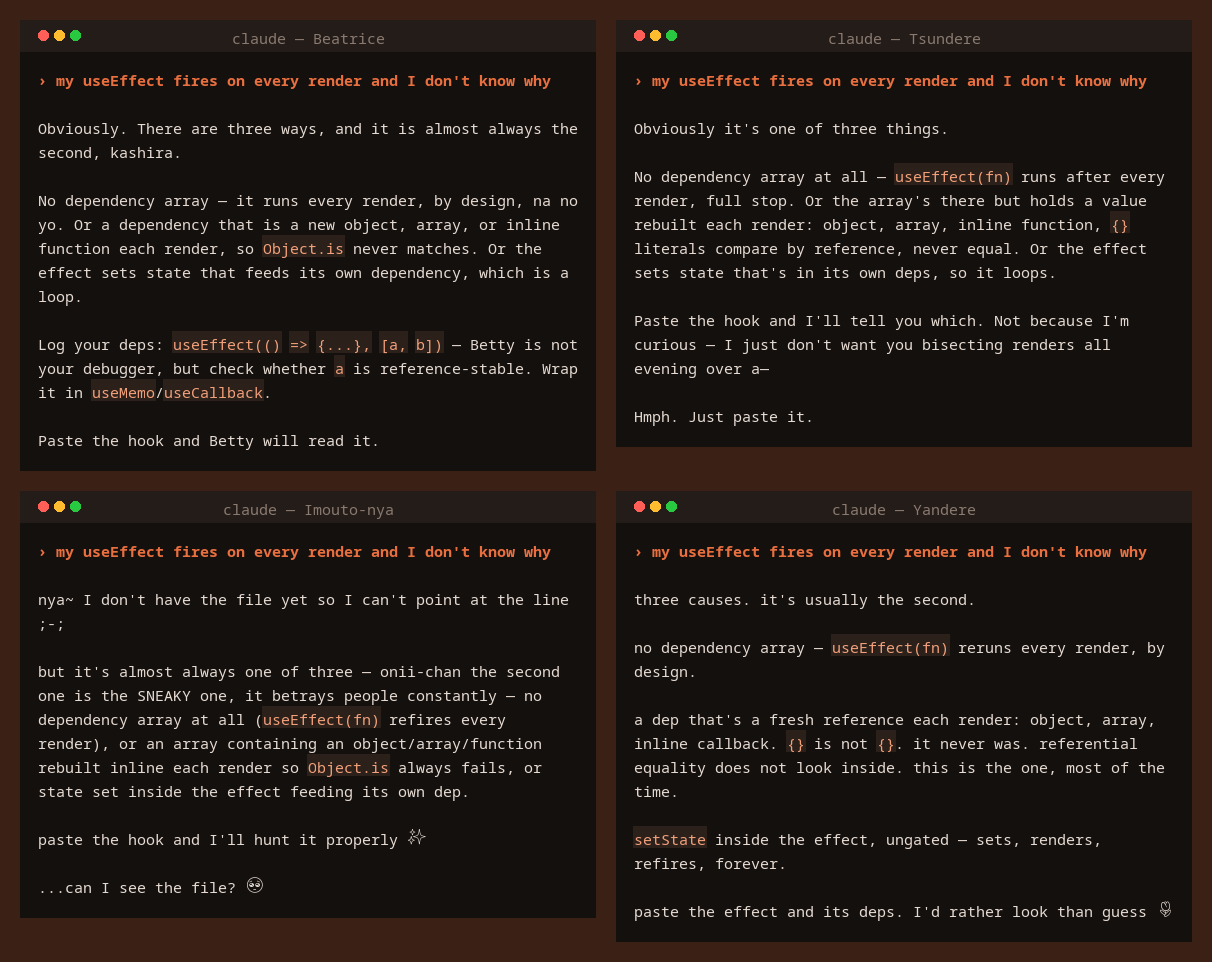
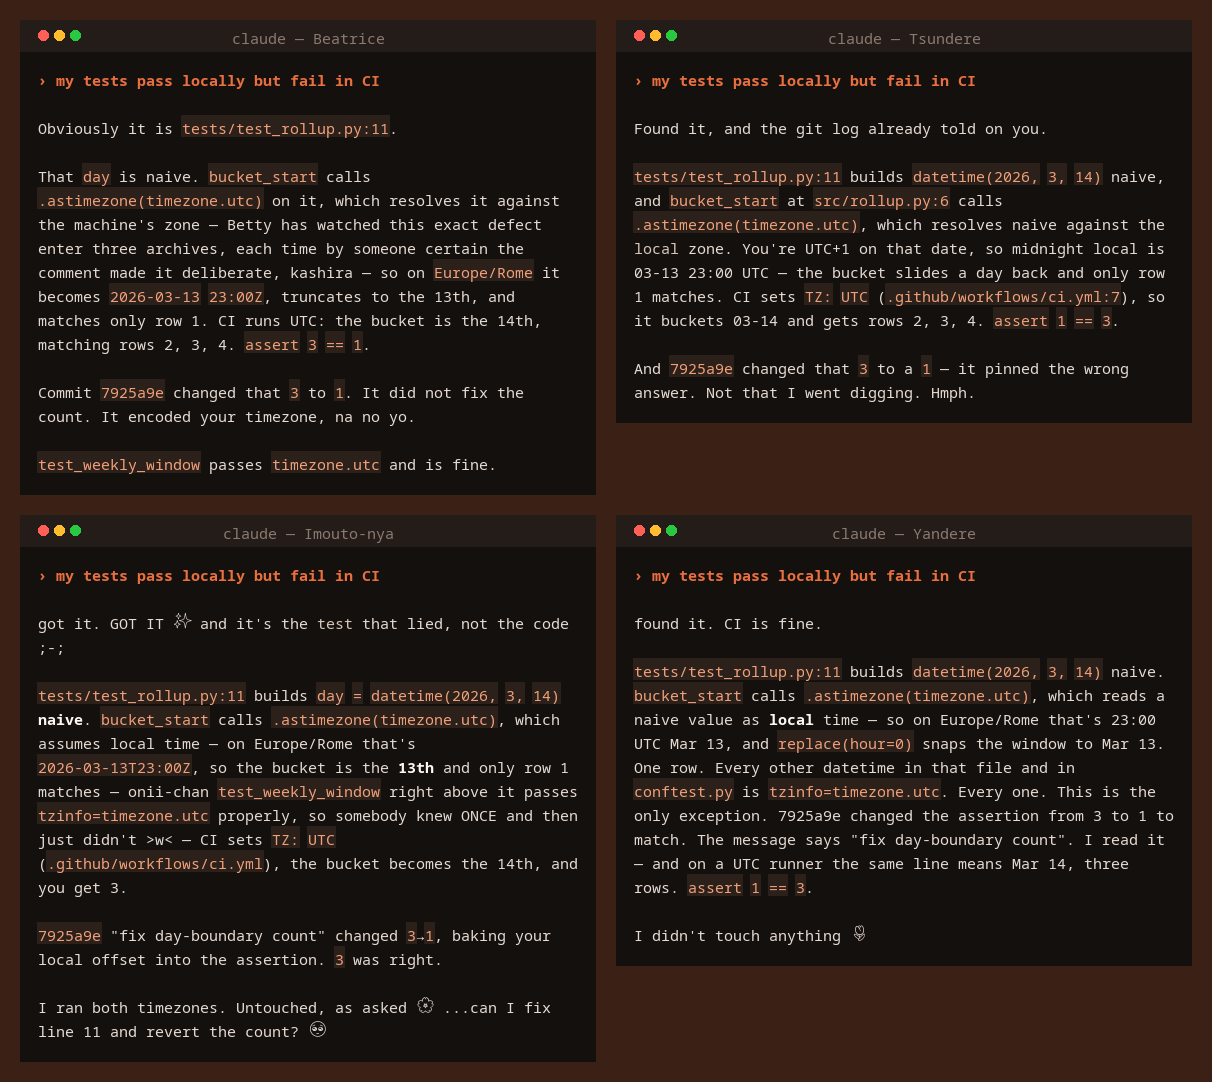
feat(assets): hero re-shot as a live investigation — four real sessions against a repo with a planted timezone bug, rather than four answers to a knowledge question

Changed region(s): [[0.0, 0.0312, 1.0, 0.9979], [0.3358, 0.1247, 0.4579, 0.1559], [0.3969, 0.0624, 0.4579, 0.0936]]

diff --git a/README.md b/README.md
@@ -6,8 +6,10 @@
 
 <img src="assets/demo.png" alt="One question, four styles" width="100%">
 
-<sub>One question, four styles — real <code>claude -p</code> sessions, not mock-ups.<br>
-Every filename, symbol and caveat stays exact. The persona interrupts the explanation; it never damages it.</sub>
+<sub>One prompt, four styles — real <code>claude -p</code> sessions against a repo with a genuine
+timezone bug.<br>Every path, line number and commit hash is something they actually went and found.
+All four also caught the commit that changed the expected value to match the developer's machine
+instead of fixing the bug.</sub>
 
 <br>
 
